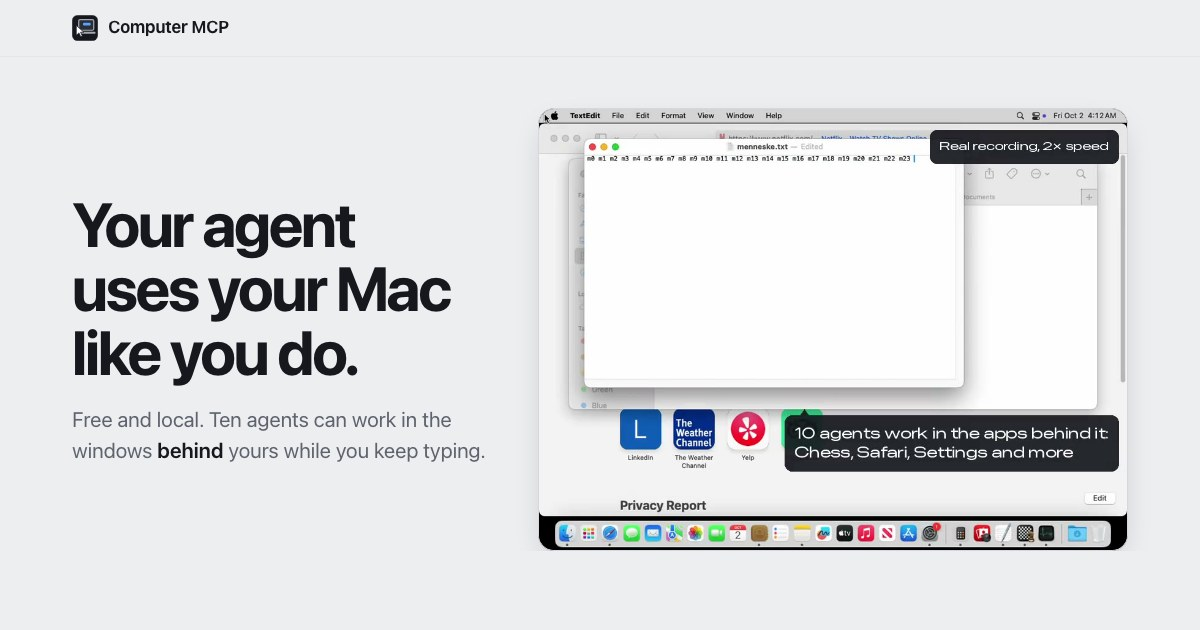
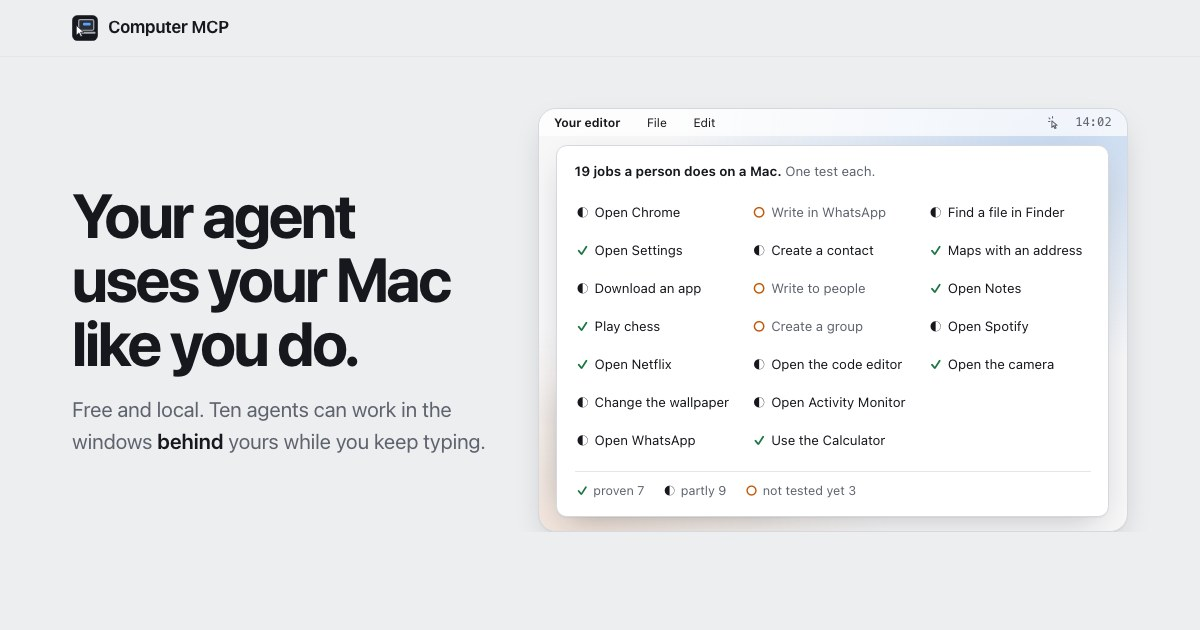
side: den tegnede film tilbage øverst, optagelsen ned som bevis
Gustav 2/10: «den gamle video var bedre». Den tegnede film med de 11
programmer og tavlen står igen øverst til højre. Den ægte optagelse
(10-runden, 175/175) har fået sin egen sektion «Ten agents at once,
recorded» lige under tillids-linjen, så underteksten om ti agenter
stadig har sit bevis på siden. Delingsbilledet viser tavlen igen.

Byttet er lavet af plans/computermcp-side-2026-10-01/v11/byt.py.
tjek-forside: alt grønt.

diff --git a/docs/index.html b/docs/index.html
@@ -415,7 +415,7 @@ p,li,dd{text-wrap:pretty}
 .clip figcaption{margin-top:12px;font-size:15px;line-height:1.5;color:var(--muted)}
 .clip figcaption b{color:var(--ink);font-weight:600}
 @media (prefers-reduced-motion: reduce){.clip video{display:none}.clip img{display:block}}
-.jobs-sec .film{max-width:760px;margin-top:28px}
+.rec-sec .clip{max-width:760px;margin-top:28px}
 
 /* Sections */
 main section{padding-block:72px}
@@ -506,23 +506,6 @@ footer .right{margin-left:auto}
     <p class="small"><a href="https://github.com/Agent360dk/computerMCP/blob/main/LICENSE">MIT-licensed</a>. macOS 14 or later, tested on 15. No account, no server of ours.</p>
   </div>
 
-  <figure class="clip">
-    <video src="hero-10.mp4" poster="hero-10.jpg" autoplay muted loop playsinline controls preload="auto" width="960" height="720"
-      aria-label="A real screen recording, sped up twice. A text editor stays in front while a test types into it. Behind it, ten agents use Chess, Safari, System Settings and other apps. The menu bar says TextEdit the whole time. It ends on: 10 agents at once, 175 of 175 writes landed, no agent took the screen."></video>
-    <img src="hero-10.jpg" alt="A text editor in front with ten agents working in the apps behind it" width="960" height="720">
-    <figcaption><b>Real recording, sped up 2×.</b> Ten agents at once on GitHub’s Mac (2 Oct), behind a window where a test kept typing: 175 of 175 writes landed, and no agent took the screen. The test does the typing, not a person. <a href="#jobs">The 19 jobs we test</a>.</figcaption>
-  </figure>
-</div>
-
-<div class="trust wrap">
-  <span>Works with the client you already use</span>
-  <ul class="clients"><li>Claude Code</li><li>Claude Desktop</li><li>Cursor</li><li>VS Code</li><li>Copilot</li><li>Codex</li></ul>
-  <p>Every change is built and tested on a Mac on GitHub before it can land. <a href="https://github.com/Agent360dk/computerMCP/actions">See the runs</a>.</p>
-</div>
-
-<section id="jobs" class="wrap jobs-sec" aria-labelledby="jobs-h">
-  <h2 id="jobs-h">19 jobs, one test each</h2>
-  <p class="lead">What each test did, what the app showed afterwards, and the score for all 19.</p>
   <div class="film">
     <input type="checkbox" id="pause">
     <div class="desk" role="img" aria-label="A 48-second film, drawn from our real test runs. While you keep typing in your editor, an agent does eleven everyday jobs in the windows behind yours: Calculator, chess, Finder, Maps, Netflix, Settings, Notes, Activity Monitor, Spotify, the Wallpaper page and Contacts. Then two facts, and a score for all 19 jobs we test: 7 proven, 9 partly, 3 not tested yet.">
@@ -680,6 +663,23 @@ footer .right{margin-left:auto}
       </ul>
     </details>
   </div>
+</div>
+
+<div class="trust wrap">
+  <span>Works with the client you already use</span>
+  <ul class="clients"><li>Claude Code</li><li>Claude Desktop</li><li>Cursor</li><li>VS Code</li><li>Copilot</li><li>Codex</li></ul>
+  <p>Every change is built and tested on a Mac on GitHub before it can land. <a href="https://github.com/Agent360dk/computerMCP/actions">See the runs</a>.</p>
+</div>
+
+<section id="recording" class="wrap rec-sec" aria-labelledby="rec-h">
+  <h2 id="rec-h">Ten agents at once, recorded</h2>
+  <p class="lead">Not a drawing: a real run on GitHub’s Mac, where a test kept typing in front while ten agents worked in the apps behind it.</p>
+  <figure class="clip">
+    <video src="hero-10.mp4" poster="hero-10.jpg" autoplay muted loop playsinline controls preload="auto" width="960" height="720"
+      aria-label="A real screen recording, sped up twice. A text editor stays in front while a test types into it. Behind it, ten agents use Chess, Safari, System Settings and other apps. The menu bar says TextEdit the whole time. It ends on: 10 agents at once, 175 of 175 writes landed, no agent took the screen."></video>
+    <img src="hero-10.jpg" alt="A text editor in front with ten agents working in the apps behind it" width="960" height="720">
+    <figcaption><b>Real recording, sped up 2×.</b> Ten agents at once on GitHub’s Mac (2 Oct), behind a window where a test kept typing: 175 of 175 writes landed, and no agent took the screen. The test does the typing, not a person.</figcaption>
+  </figure>
 </section>
 
 <section class="wrap uses" aria-labelledby="uses-h">
